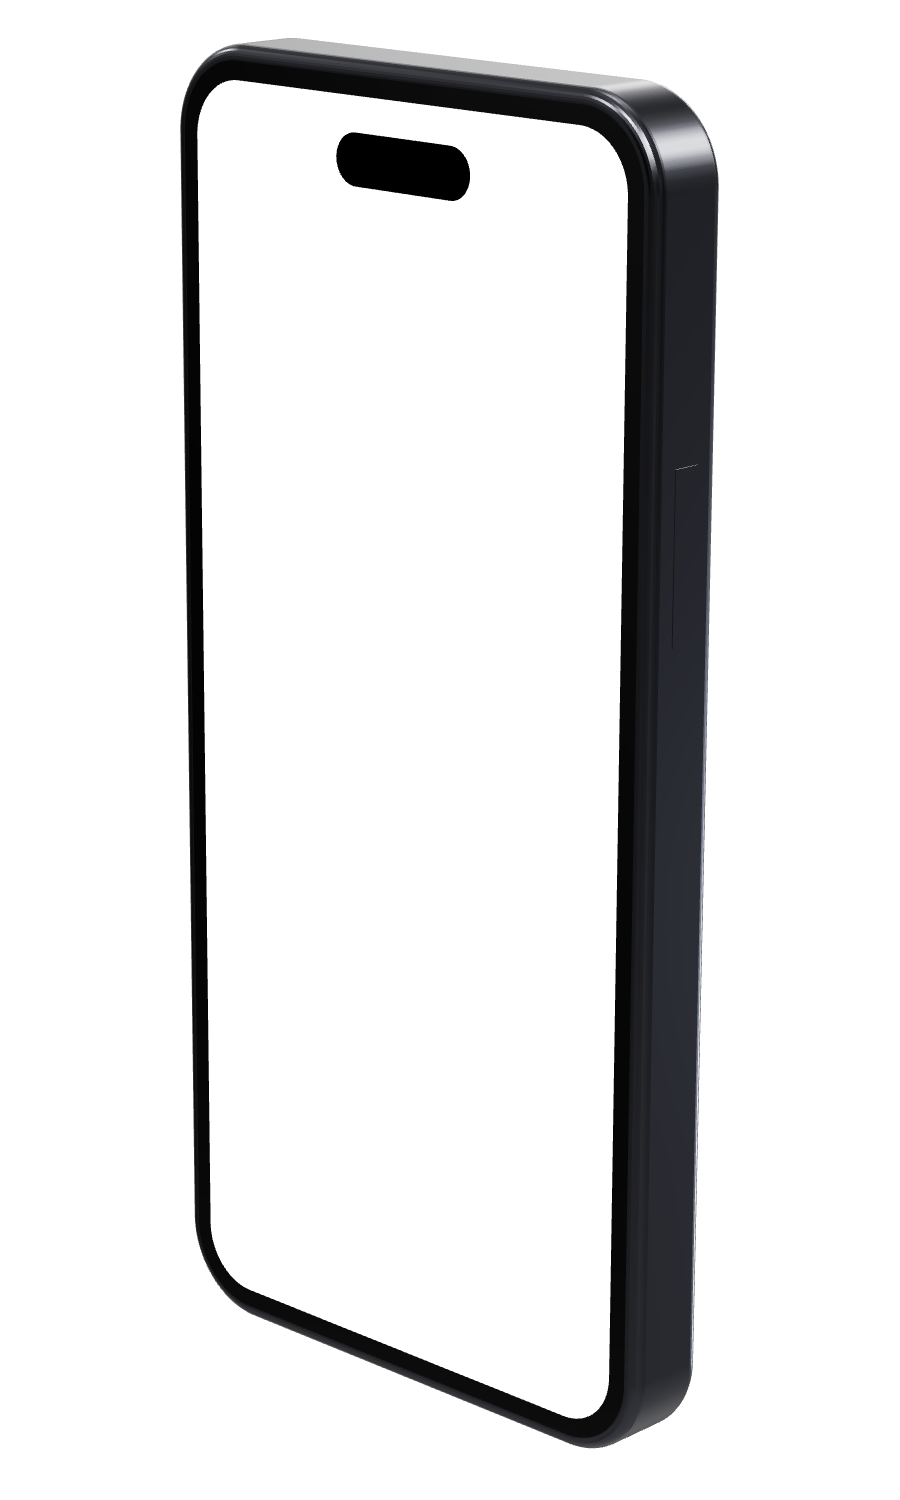
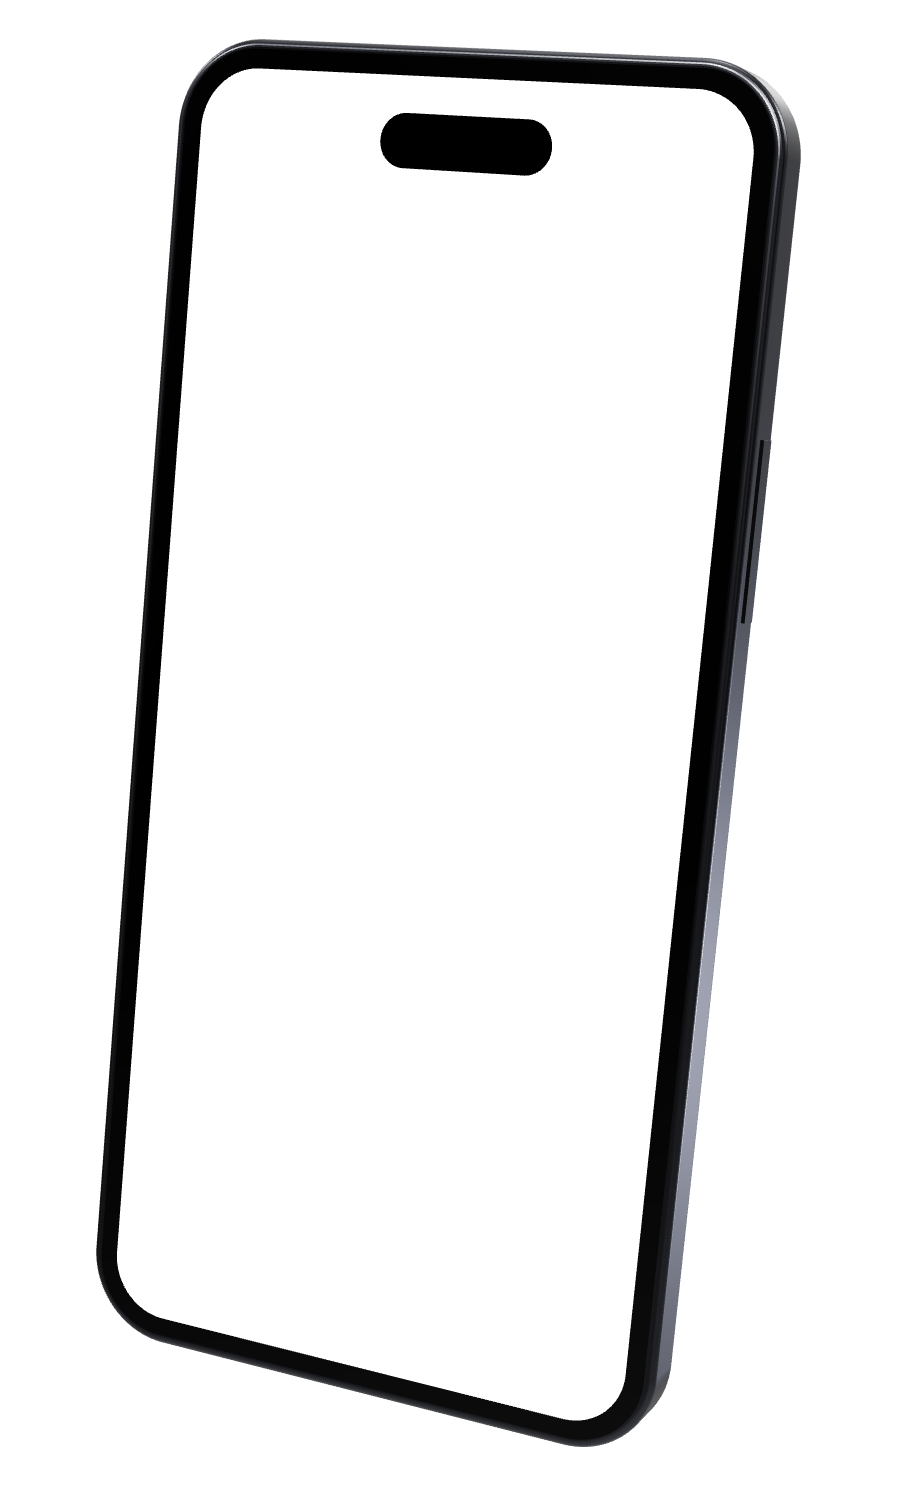
fix: 3D phone turns less and has a thinner edge, closer to the App Store reference

Changed region(s): [[0.0933, 0.0, 0.9022, 0.9813]]

diff --git a/scripts/bake-phone-3d/bake.js b/scripts/bake-phone-3d/bake.js
@@ -4,7 +4,7 @@ import { RoomEnvironment } from 'three/examples/jsm/environments/RoomEnvironment
 // Phone geometry in "width = 1" units, matching the flat iPhone model in src/phoneFrame.ts.
 const W = 1;
 const H = 2.168;
-const D = 0.11; // body thickness
+const D = 0.07; // body thickness
 const BEZEL = 0.034;
 const SCREEN_W = W - BEZEL * 2;
 const SCREEN_H = H - BEZEL * 2;
@@ -13,9 +13,9 @@ const OUT_W = 900;
 const OUT_H = 1500;
 const params = new URLSearchParams(location.search);
 const ROT = {
-  x: Number(params.get('rx') ?? 0.16),
-  y: Number(params.get('ry') ?? -0.62),
-  z: Number(params.get('rz') ?? -0.16),
+  x: Number(params.get('rx') ?? 0.1),
+  y: Number(params.get('ry') ?? -0.4),
+  z: Number(params.get('rz') ?? -0.14),
 };
 const RECEIVER = 'http://localhost:5599/';
 
@@ -62,8 +62,8 @@ scene.add(phone);
 const frameGeo = new THREE.ExtrudeGeometry(roundedRectShape(W, H, 0.13), {
   depth: D,
   bevelEnabled: true,
-  bevelThickness: 0.022,
-  bevelSize: 0.022,
+  bevelThickness: 0.014,
+  bevelSize: 0.014,
   bevelSegments: 8,
   curveSegments: 48,
 });
@@ -71,7 +71,7 @@ frameGeo.translate(0, 0, -D / 2);
 const frameMat = new THREE.MeshStandardMaterial({ color: 0x4a4b50, metalness: 1, roughness: 0.3 });
 phone.add(new THREE.Mesh(frameGeo, frameMat));
 
-const zFront = D / 2 + 0.022;
+const zFront = D / 2 + 0.014;
 
 // Black front glass (the bezel area around the screen)
 const glassGeo = new THREE.ShapeGeometry(roundedRectShape(W - 0.006, H - 0.006, 0.124), 48);
@@ -97,19 +97,19 @@ phone.add(island);
 
 // Side buttons
 function button(x, y, h) {
-  const b = new THREE.Mesh(new THREE.BoxGeometry(0.024, h, 0.05), frameMat);
+  const b = new THREE.Mesh(new THREE.BoxGeometry(0.02, h, 0.04), frameMat);
   b.position.set(x, y, 0);
   phone.add(b);
 }
-button(-W / 2 - 0.012, 0.62, 0.09); // action
-button(-W / 2 - 0.012, 0.42, 0.17); // volume up
-button(-W / 2 - 0.012, 0.18, 0.17); // volume down
-button(W / 2 + 0.012, 0.4, 0.28); // power
+button(-W / 2 - 0.01, 0.62, 0.09); // action
+button(-W / 2 - 0.01, 0.42, 0.17); // volume up
+button(-W / 2 - 0.01, 0.18, 0.17); // volume down
+button(W / 2 + 0.01, 0.4, 0.28); // power
 
 phone.rotation.order = 'YXZ';
 phone.rotation.set(ROT.x, ROT.y, ROT.z);
 
-const camera = new THREE.PerspectiveCamera(20, OUT_W / OUT_H, 0.1, 100);
+const camera = new THREE.PerspectiveCamera(Number(params.get('fov') ?? 32), OUT_W / OUT_H, 0.1, 100);
 camera.position.set(0, 0, 12);
 camera.lookAt(0, 0, 0);
 

diff --git a/src/utils/screenshotInfo.ts b/src/utils/screenshotInfo.ts
@@ -35,7 +35,7 @@ function describePhone(p: PhoneObject) {
     ...(p.screenshotDescription ? { desc: p.screenshotDescription } : {}),
     kind: p.deviceKind ?? 'phone',
     ...(getDeviceModel(p.deviceModel, p.deviceKind ?? 'phone').render3d
-      ? { look: '3D-rendered iPhone turned about 45 degrees to the right (slight top tilt), showing its right edge and thickness; the screen content is in perspective' }
+      ? { look: '3D-rendered iPhone turned about 25 degrees (slightly tilted, with strong perspective), showing only a thin sliver of its right edge; the screen content is in perspective' }
       : {}),
     width: p.width,
     top: p.top,

diff --git a/src/phoneFrame.ts b/src/phoneFrame.ts
@@ -81,7 +81,7 @@ export const DEVICE_MODELS: DeviceModel[] = [
       frameUrl: phone3dFrame,
       frameWidth: 900,
       frameHeight: 1500,
-      quad: [[0.21843, 0.04989], [0.6989, 0.08766], [0.67576, 0.95595], [0.23471, 0.84961]],
+      quad: [[0.22854, 0.04393], [0.84483, 0.06125], [0.68836, 0.95545], [0.12559, 0.87075]],
       screenAspect: 2.2532,
     },
   },
